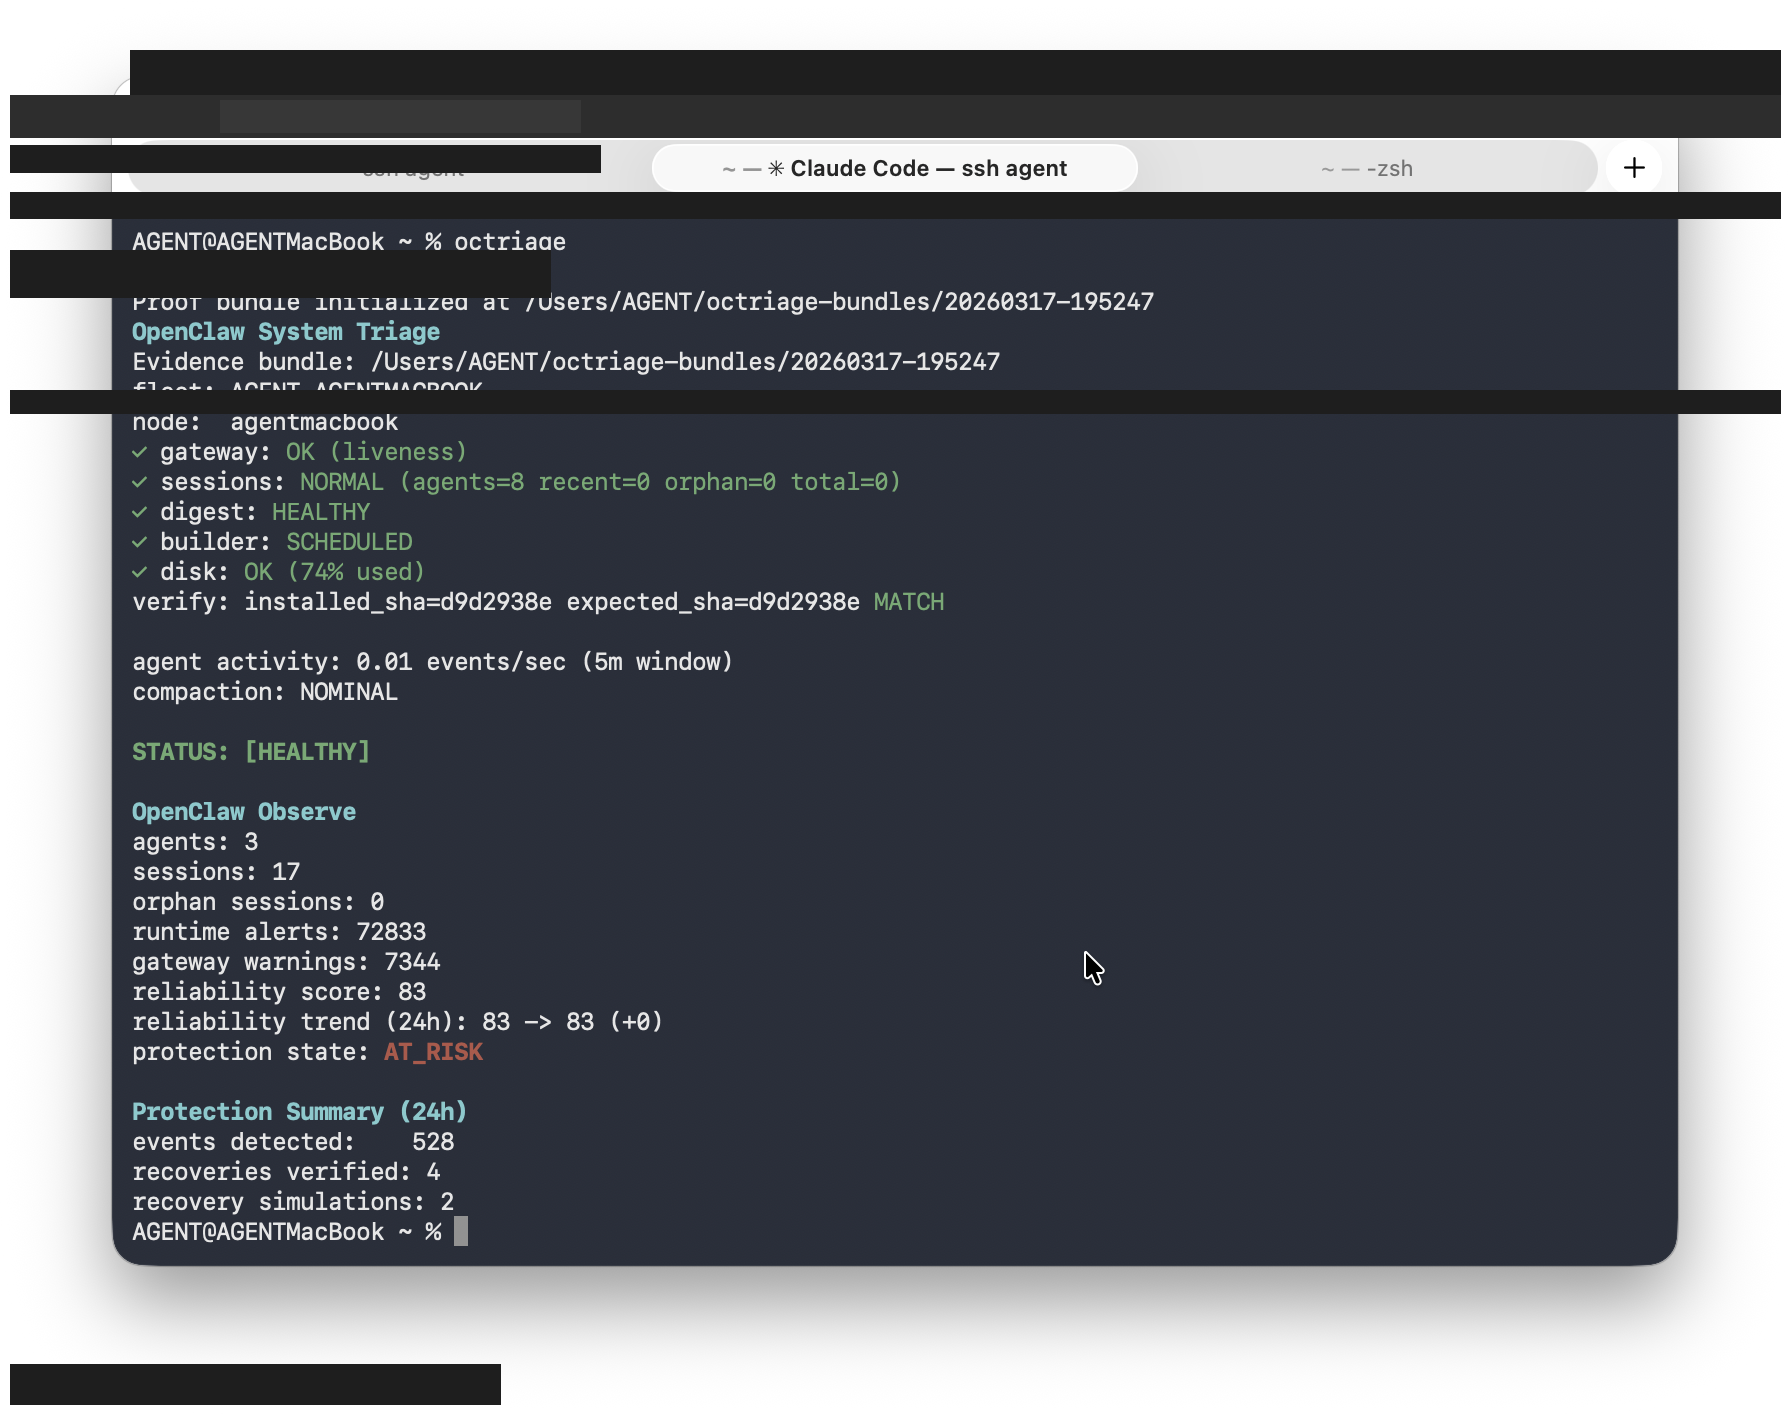
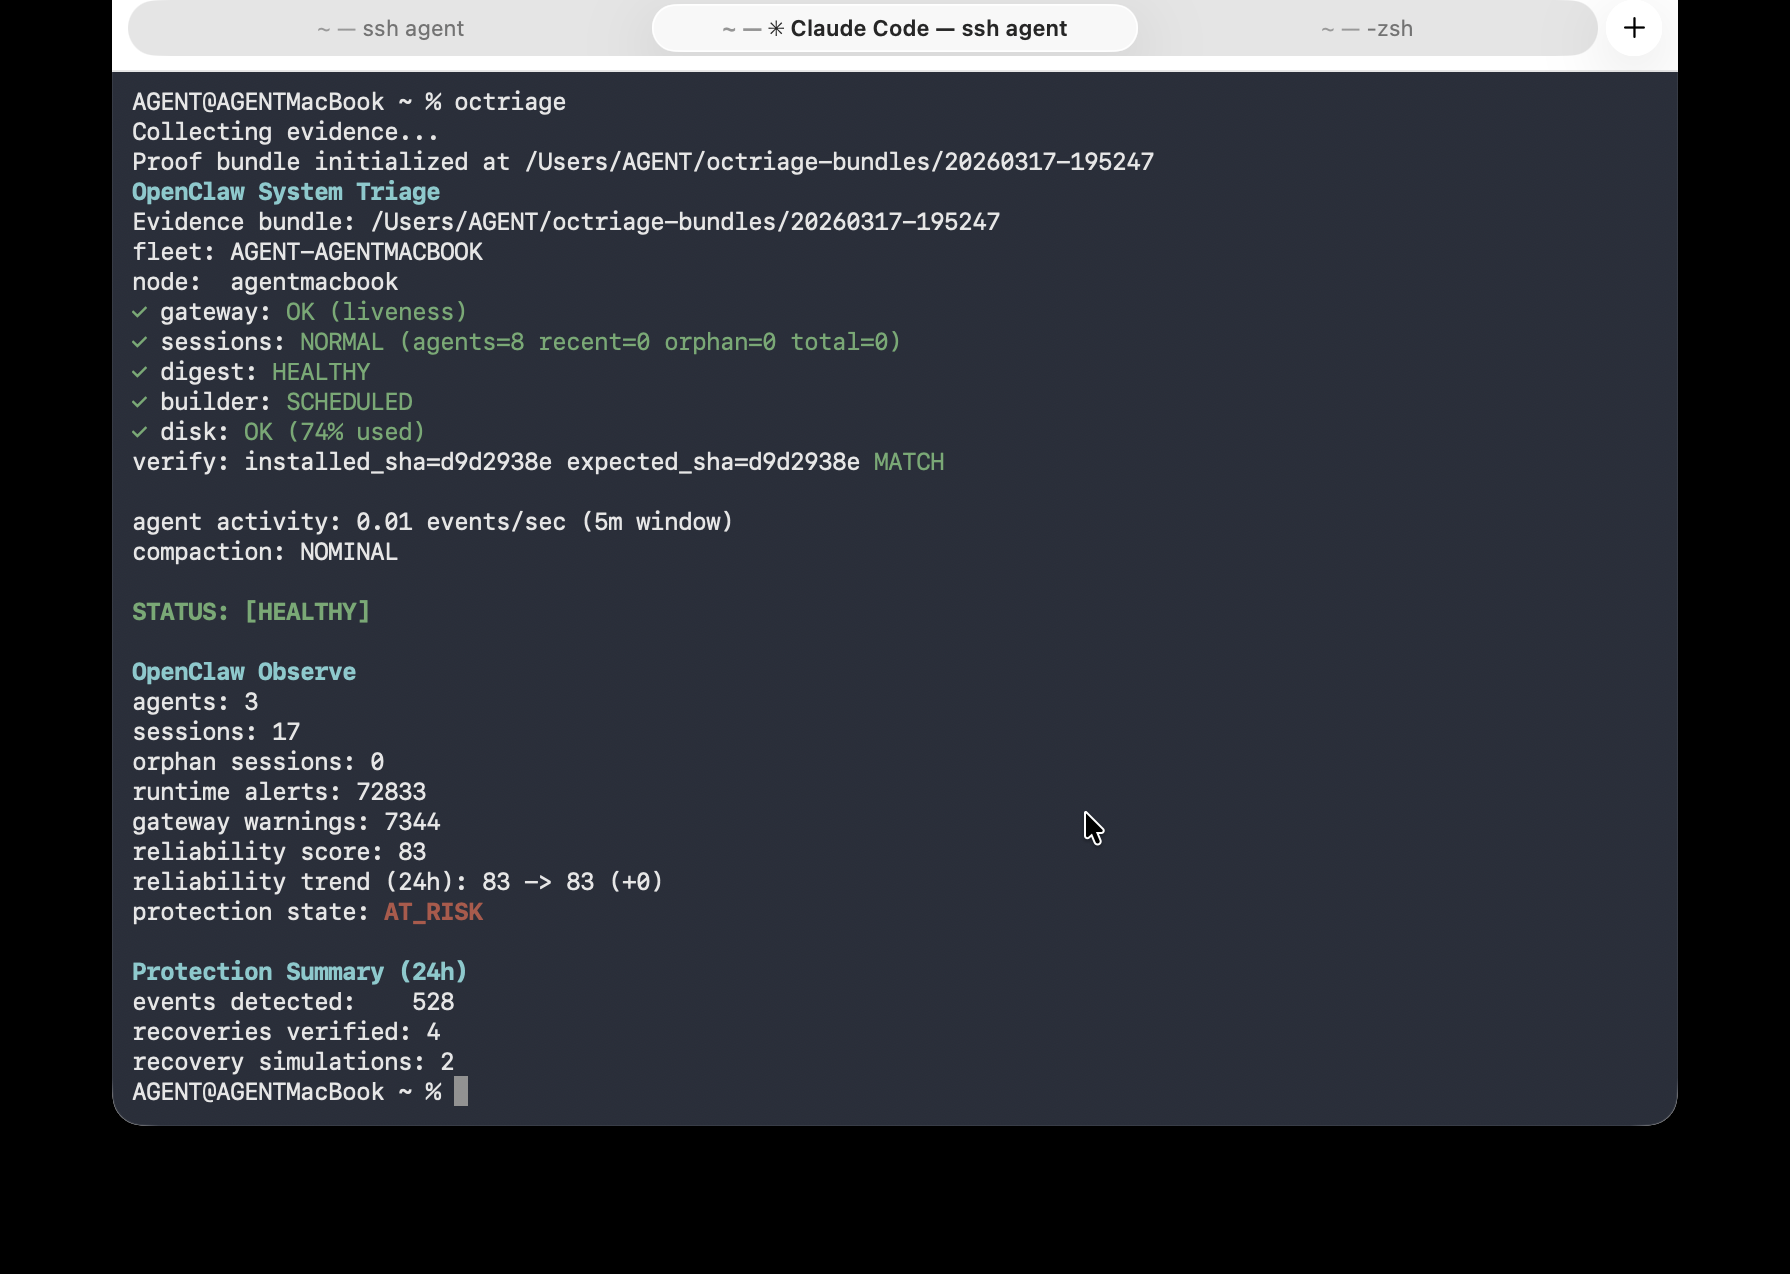
triage screenshot: crop title bar cleanly, add tagline 'works when OpenClaw doesnt'

diff --git a/app/page.tsx b/app/page.tsx
@@ -218,7 +218,7 @@ Protection: ACTIVE`}
             </div>
 
             {/* Screenshot — angled pop */}
-            <div className="hidden lg:flex lg:items-start lg:justify-center">
+            <div className="hidden lg:flex lg:flex-col lg:items-center lg:gap-4">
               <div
                 className="overflow-hidden rounded-xl shadow-[0_24px_60px_rgba(0,0,0,0.6)]"
                 style={{ transform: "rotate(7deg)", transformOrigin: "top center", maxWidth: "400px" }}
@@ -231,6 +231,9 @@ Protection: ACTIVE`}
                   className="w-full h-auto"
                 />
               </div>
+              <p className="mt-6 max-w-[280px] text-center text-[13px] leading-5 text-[#5A6E80]">
+                Works when OpenClaw doesn&apos;t. If your gateway is degraded, Triage still runs.
+              </p>
             </div>
           </div>
         </section>
